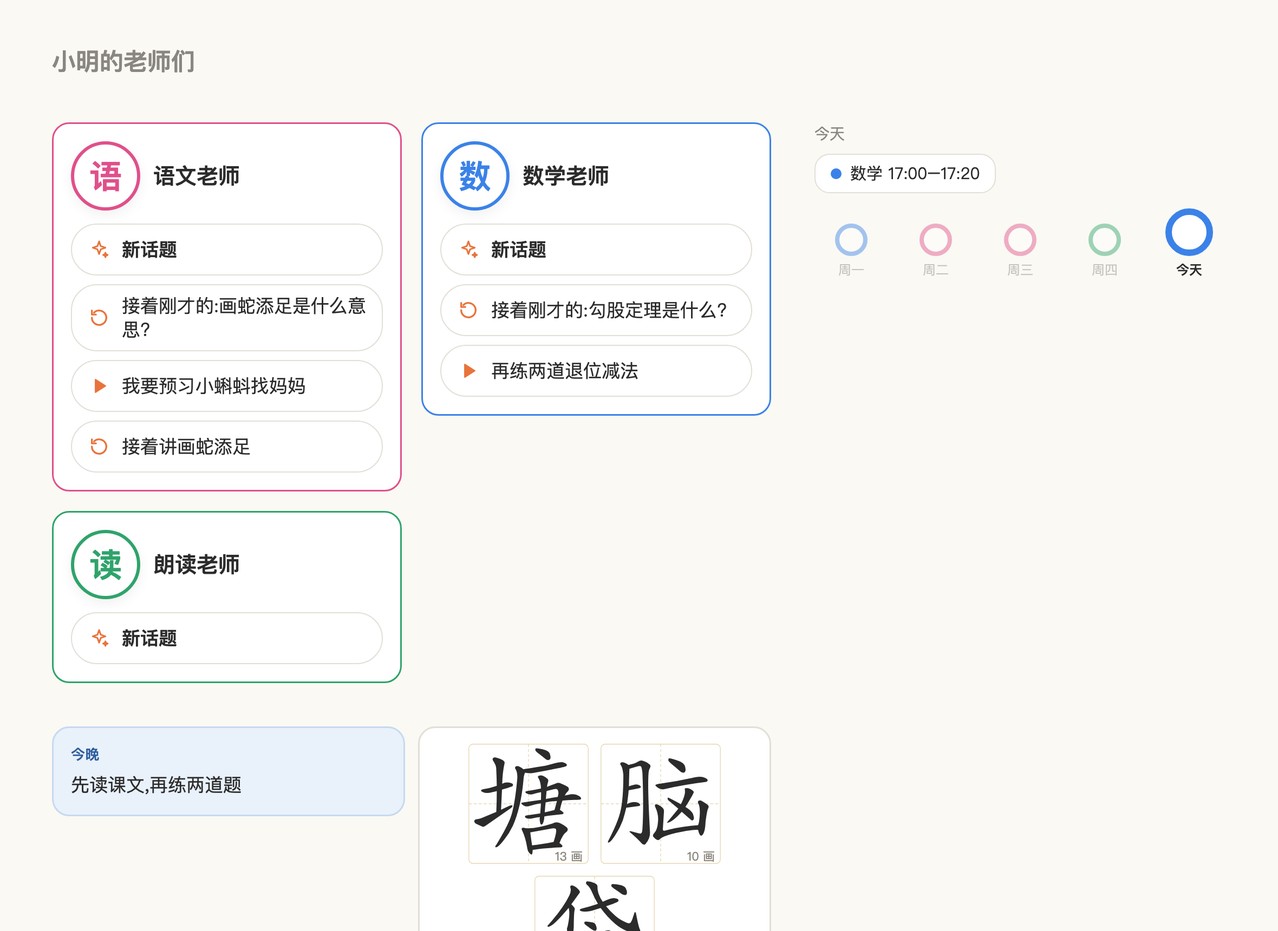
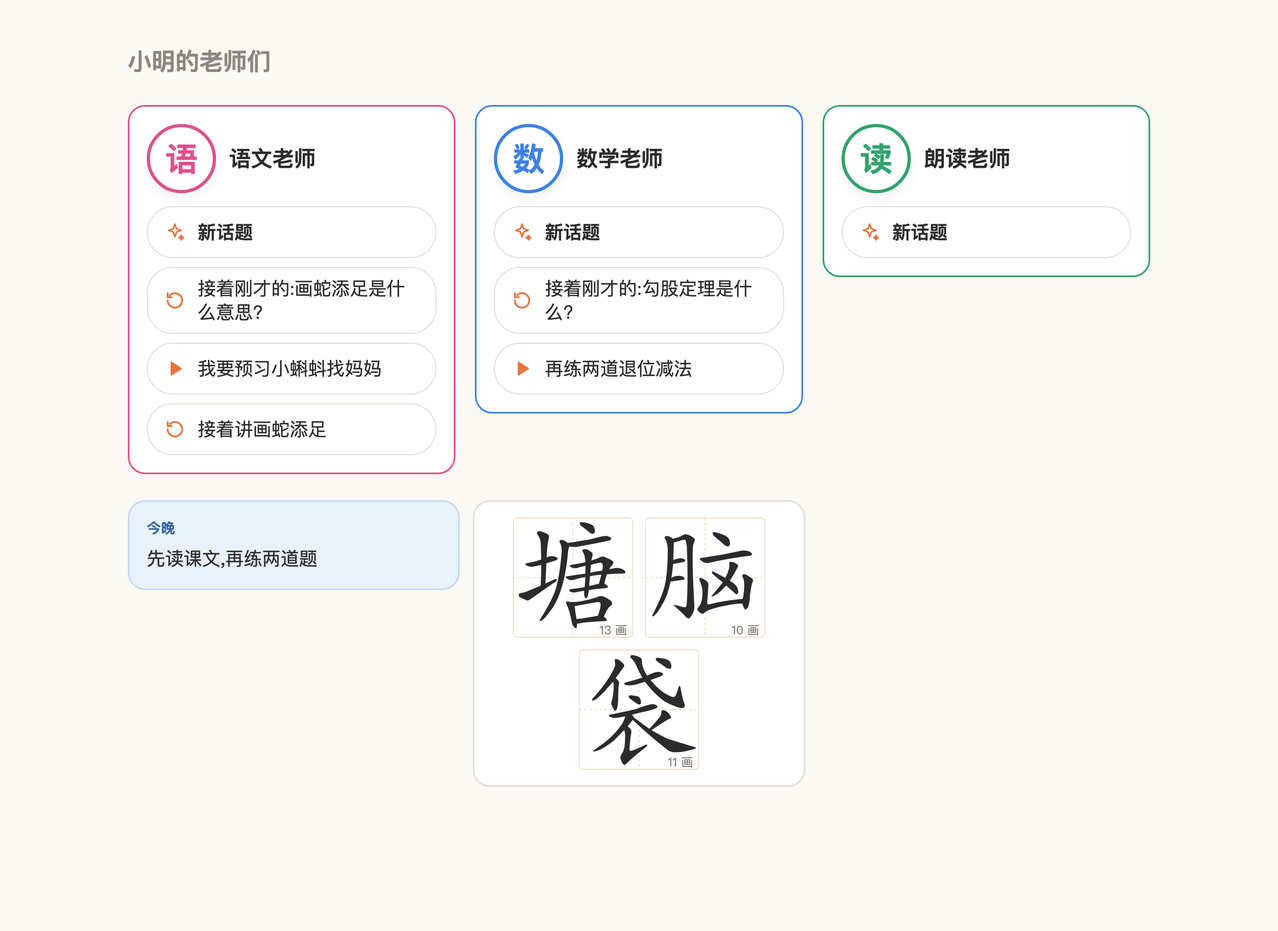
首页去掉右边的「今天」栏:初始状态就是每位老师一张卡
没写课程表时那一栏只剩一个空圈,手机上还掉到最底下;课程表第三期作为家长排的卡回来。
/api/kid/home 不再给 timetable / slot / day(上下文包的 slot 是 runner 自己算的,不受影响);
整页单列居中,平板上老师卡一行三张。刚装好、什么记录都没有时,首页就是每位老师一张只有
「新话题」的卡(《首页设计.md》拍板记录 2026-09-18 初始状态)。

diff --git a/src/server/kid-page.ts b/src/server/kid-page.ts
@@ -1,5 +1,5 @@
 /**
- * 孩子端 `/`:首页(老师卡 + 家长发布的首页卡 + 今天,《首页设计.md》)与老师页(= 板书页)。零依赖内联脚本,只走 /api/kid/* 与 /api/audio。
+ * 孩子端 `/`:首页(老师卡 + 家长发布的首页卡,《首页设计.md》)与老师页(= 板书页)。零依赖内联脚本,只走 /api/kid/* 与 /api/audio。
  * 首页的老师卡上按钮决定进老师页之后的话题:新话题 / 接着某个话题 / 开场(按钮上的字立刻发出去);老师页不再自己猜话题。
  * 家长预览(/parent/home-preview)是同一个页面:__PREVIEW__ 换成 "draft" / "published",数据走 /api/home/preview,按钮不真发。
  * 铁律(《产品规划.md》):界面上永远没有错误与评判——后端不通、老师出错、识别失败,都只是「什么都不出现」或头像灰;
@@ -74,20 +74,8 @@ const PAGE = `<!doctype html>
   .hcards { display:grid; grid-template-columns:minmax(0,1fr); gap:12px; align-items:start; }
   .hcards:empty { display:none; }
   .lbl { font-size:14px; color:var(--dim); }
-  .today { display:flex; flex-direction:column; gap:8px; }
-  .slot .dot { width:10px; height:10px; border-radius:50%; flex:0 0 auto; }
   #toast { position:fixed; left:50%; bottom:calc(env(safe-area-inset-bottom) + 24px); transform:translateX(-50%); max-width:min(560px,calc(100% - 32px)); padding:12px 18px; border-radius:16px; background:#2b2b2bee; color:#fff; font-size:15px; line-height:1.5; white-space:pre-line; z-index:50; display:none; }
   #toast.on { display:block; }
-  .slots { display:flex; gap:8px; flex-wrap:wrap; }
-  .slot { display:inline-flex; align-items:center; gap:8px; background:var(--card); border:1px solid var(--line); border-radius:14px; padding:6px 14px; font-size:15px; }
-  .slot.now { border-color:var(--accent); box-shadow:0 0 0 3px #e8743b33; }
-  .path { display:flex; align-items:flex-end; gap:10px; padding:6px 0 0; }
-  .station { display:flex; flex-direction:column; align-items:center; gap:4px; flex:1; }
-  .station .ring { width:30px; height:30px; border-radius:50%; border:4px solid var(--line); background:var(--card); }
-  .station.now .ring { width:44px; height:44px; border-width:6px; }
-  .station .d { font-size:12px; color:var(--dim); }
-  .station.now .d { color:var(--ink); font-weight:600; }
-  .station.past { opacity:.45; } .station.later { opacity:.7; }
   #rest { display:none; text-align:center; color:var(--dim); font-size:16px; padding:12px 0; }
   body.offline #rest { display:block; }
   body.offline .c-tutor { pointer-events:none; }
@@ -158,11 +146,10 @@ const PAGE = `<!doctype html>
   input[type=file] { display:none; }
   /* ---- 平板横屏 ---- */
   @media (min-width:900px) and (orientation:landscape) {
-    #home { max-width:none; display:grid; grid-template-columns:1fr 380px; gap:40px; padding:calc(env(safe-area-inset-top) + 40px) 48px 40px; align-content:start; }
-    #home h1 { grid-column:1 / -1; font-size:22px; }
-    #home .tutors { grid-column:1; grid-template-columns:repeat(auto-fill,minmax(280px,1fr)); gap:18px; align-items:start; }
-    #home .hcards { grid-column:1; grid-template-columns:repeat(auto-fill,minmax(280px,1fr)); }
-    #home .side { grid-column:2; grid-row:2 / span 3; display:flex; flex-direction:column; gap:14px; }
+    #home { max-width:1040px; padding:calc(env(safe-area-inset-top) + 40px) 48px 40px; gap:24px; }
+    #home h1 { font-size:22px; }
+    #home .tutors { grid-template-columns:repeat(auto-fill,minmax(280px,1fr)); gap:18px; align-items:start; }
+    #home .hcards { grid-template-columns:repeat(auto-fill,minmax(280px,1fr)); }
     #main header { padding-left:32px; padding-right:32px; }
     #board { width:100%; max-width:1040px; margin:0 auto; padding:16px 32px 24px; }
     #sub, #bar { width:100%; max-width:1040px; margin:0 auto; padding-left:32px; padding-right:32px; }
@@ -173,7 +160,6 @@ const PAGE = `<!doctype html>
   <div class="tutors" id="tutors"></div>
   <p id="rest">老师们休息中</p>
   <div class="hcards" id="hcards"></div>
-  <div class="side" id="side"></div>
 </div>
 <div id="toast"></div>
 <section id="tutor">
@@ -253,7 +239,6 @@ __BOARD_JS__
   const PALETTE = ['#e8743b', '#3b82e8', '#2fa36b', '#b45fd1', '#d9a520', '#e0508a'];
   const FIXED = { '语文': '#e0508a', '数学': '#3b82e8', '英语': '#2fa36b' };
   const color = (s) => { if (FIXED[s]) return FIXED[s]; let x = 0; for (const ch of s || '') x = (x * 31 + ch.codePointAt(0)) >>> 0; return PALETTE[x % PALETTE.length]; };
-  const DAYS = ['', '一', '二', '三', '四', '五', '六', '日'];
   const avatarEl = (t, cls) => {
     const el = h('span', { class: 'av ' + (cls || ''), style: 'border-color:' + color(t.subject || t.display) + ';color:' + color(t.subject || t.display) });
     if (t.avatar && /\.(png|jpe?g|webp|svg)$/i.test(t.avatar)) el.append(h('img', { src: '/api/kid/avatar/' + t.name, alt: '' }));
@@ -331,14 +316,6 @@ __BOARD_JS__
     const tcards = cards.filter((c) => c.kind === 'tutor' && byName.has(c.props.tutor));
     $('#tutors').replaceChildren(...tcards.map((c) => tutorCard(byName.get(c.props.tutor), Array.isArray(c.props.buttons) ? c.props.buttons : [])));
     $('#hcards').replaceChildren(...cards.filter((c) => c.kind !== 'tutor').map((c, i) => renderCard(c, i, null, false)));
-    const days = [...new Set([...H.timetable.map((e) => e.day), H.day])].sort((a, b) => a - b);
-    const slots = H.timetable.filter((e) => e.day === H.day).map((e) => h('span', { class: 'slot' + (H.slot === e.subject + ' ' + e.start + '-' + e.end ? ' now' : '') }, h('span', { class: 'dot', style: 'background:' + color(e.subject) }), e.subject + ' ' + e.start + '–' + e.end));
-    const path = h('div', { class: 'path' }, ...days.map((d) => {
-      const subjects = [...new Set(H.timetable.filter((e) => e.day === d).map((e) => e.subject))];
-      const when = d === H.day ? 'now' : d < H.day ? 'past' : 'later';
-      return h('div', { class: 'station ' + when }, h('span', { class: 'ring', style: 'border-color:' + (subjects.length ? color(subjects[0]) : 'var(--line)') }), h('span', { class: 'd' }, d === H.day ? '今天' : '周' + DAYS[d]));
-    }));
-    $('#side').replaceChildren(h('div', { class: 'today' }, h('span', { class: 'lbl' }, '今天'), slots.length ? h('div', { class: 'slots' }, ...slots) : null, path));
   };
   const loadHome = async () => {
     try { S.home = await api('GET', PREVIEW ? '/api/home/preview?which=' + PREVIEW : '/api/kid/home'); setOffline(false); renderHome(); }

diff --git a/tests/mock.test.ts b/tests/mock.test.ts
@@ -10,9 +10,9 @@ interface Day { messages: Msg[]; remaining: number; pending: string | null }
   const m = createMock({ delayMs: 0, now: () => new Date('2026-09-10T16:30:00') });
   const get = (p: string) => m.route('GET', p);
   type HomeCard = { kind: string; props: { tutor?: string; buttons?: { id: string | number; kind: string; label: string; date?: string; thread?: string }[] } };
-  const home = (await get('/api/kid/home')).json as { title: string; day: number; home: string; tutors: { name: string; available: boolean; motto: string }[]; cards: HomeCard[] };
+  const home = (await get('/api/kid/home')).json as { title: string; home: string; tutors: { name: string; available: boolean; motto: string }[]; cards: HomeCard[] };
   const tc = home.cards.filter((c) => c.kind === 'tutor');
-  check('首页:三位老师、口号;老师卡置顶(语文、数学照原文,朗读补一张),其余卡照原文顺序', home.title === '小明的老师们' && home.day === 4 && home.tutors.length === 3 && home.tutors.every((t) => t.available) && home.tutors[0].motto === '故事里都有道理' && home.home === '2026-09-09-2130' && tc.map((c) => c.props.tutor).join() === 'chinese-tutor,math-tutor,reading-tutor' && home.cards.slice(3).map((c) => c.kind).join() === 'text,tianzige', JSON.stringify(home.cards.map((c) => c.kind)));
+  check('首页:三位老师、口号;老师卡置顶(语文、数学照原文,朗读补一张),其余卡照原文顺序', home.title === '小明的老师们' && home.tutors.length === 3 && home.tutors.every((t) => t.available) && home.tutors[0].motto === '故事里都有道理' && home.home === '2026-09-09-2130' && tc.map((c) => c.props.tutor).join() === 'chinese-tutor,math-tutor,reading-tutor' && home.cards.slice(3).map((c) => c.kind).join() === 'text,tianzige', JSON.stringify(home.cards.map((c) => c.kind)));
   check('老师卡的按钮:新话题第一、今天聊过的「接着刚才的」第二、然后是原文的开场与接着;没写的只有新话题;讲法不下发', tc[0].props.buttons?.map((b) => b.id).join() === 'new,recent,0,1' && tc[0].props.buttons?.[1].label === '接着刚才的:画蛇添足是什么意思?' && tc[0].props.buttons?.[3].kind === 'continue' && tc[0].props.buttons?.[3].date === '2026-09-09' && tc[2].props.buttons?.map((b) => b.id).join() === 'new' && !JSON.stringify(home).includes('第 22 课') && !JSON.stringify(home).includes('brief'), JSON.stringify(tc[0].props.buttons));
   const d0 = (await get('/api/kid/conversations/chinese-tutor/today')).json as Day;
   check('语文老师已讲过一节:卡 + 讲稿 + 标注 + 末句问句(脚本过真解析器)', d0.messages.length === 1 && d0.messages[0].section !== null && d0.messages[0].section.cards.map((c) => c.kind).join() === 'text,text,read,choice' && d0.messages[0].section.lines.length === 5 && d0.messages[0].section.lines[1].marks[0]?.card === 1 && d0.messages[0].section.lines[4].ask === true, JSON.stringify(d0.messages[0].section?.lines[1]));

diff --git a/tests/runner.test.ts b/tests/runner.test.ts
@@ -231,8 +231,8 @@ try {
   check('起不来 → error 指向 err.log,尾巴带原因', dm.index.messages[0].result === 'error' && String(dm.index.messages[0].error).startsWith('spawn:') && dm.errors[dm.index.messages[0].job]?.includes('起不来'), JSON.stringify({ m: dm.index.messages[0], e: dm.errors }));
 
   // ---- 孩子端接口:首页、过滤后的会话、发消息、每日上限、配音文件 ----
-  const home = (await route('GET', '/api/kid/home', ctx)).json as { title: string; timetable: unknown[]; tutors: { name: string; available: boolean; remaining: number; hasVoice: boolean }[]; home: string | null; cards: { kind: string; props: { tutor?: string } }[] };
-  check('首页:标题、课程表、孩子端老师(无 scene-maker);没发布过 = 缺省首页(每位老师一张卡)', home.title === '小明的老师们' && home.timetable.length === 2 && home.tutors.length === 3 && !home.tutors.some((t) => t.name === 'scene-maker') && home.home === null && home.cards.map((c) => c.props.tutor).join() === 'chinese-tutor,math-tutor,reading-tutor', JSON.stringify(home.cards));
+  const home = (await route('GET', '/api/kid/home', ctx)).json as { title: string; tutors: { name: string; available: boolean; remaining: number; hasVoice: boolean }[]; home: string | null; cards: { kind: string; props: { tutor?: string } }[] };
+  check('首页:标题、孩子端老师(无 scene-maker)、没有课程表那一栏;没发布过 = 缺省首页(每位老师一张卡)', home.title === '小明的老师们' && !('timetable' in home) && home.tutors.length === 3 && !home.tutors.some((t) => t.name === 'scene-maker') && home.home === null && home.cards.map((c) => c.props.tutor).join() === 'chinese-tutor,math-tutor,reading-tutor', JSON.stringify(home.cards));
   check('老师带 hasVoice 与剩余条数(今天 09-09 孩子还没发过)', home.tutors.find((t) => t.name === 'math-tutor')?.hasVoice === true && home.tutors.find((t) => t.name === 'math-tutor')?.remaining === 30, JSON.stringify(home.tutors));
   const kd = (await route('GET', '/api/kid/conversations/math-tutor/today', ctx)).json as { messages: { question: string | null; reply: string | null; audio: string | null }[]; remaining: number; pending: string | null };
   check('孩子视图:家长发的只见回复,搜不到工具、错误、家长尾巴', kd.messages.length === 1 && kd.messages[0].question === null && kd.messages[0].reply === '第一次说:新的一天' && !/工具|error|holdup|handoff|costUsd|Read/.test(JSON.stringify(kd)), JSON.stringify(kd));

diff --git a/src/server/app.ts b/src/server/app.ts
@@ -13,8 +13,7 @@ import { foldRuns, type TranscriptRow } from '../lib/transcript.ts';
 import { RuntimeError } from '../lib/run-plan.ts';
 import { currentThread, lastJobOf, localDate, threads } from '../lib/conversation.ts';
 import { kidConversation, kidMessageCount, kidThreads, type KidMessage, type KidThread } from '../lib/kid-view.ts';
-import { currentSlot, dayOf, parseTimetable, slotLabel } from '../lib/timetable.ts';
-import { DATE_RE, FocusSchema, HOME_ID_RE, HomeViaSchema, MESSAGE_FROM, listTutors, resolvePolicy, type ConversationIndex, type TimetableEntry } from '../schema/index.ts';
+import { DATE_RE, FocusSchema, HOME_ID_RE, HomeViaSchema, MESSAGE_FROM, listTutors, resolvePolicy, type ConversationIndex } from '../schema/index.ts';
 import type { BoardCard } from '../lib/kid-board.ts';
 import { ConfigError, UsageError, redactHome, workspaceReport, type Workspace } from '../cli/workspace.ts';
 import { tutorStatuses } from '../cli/tutors.ts';
@@ -135,10 +134,6 @@ export async function kidTutors(ctx: AppContext, date: string): Promise<KidTutor
 export interface KidHome {
   title: string;
   date: string;
-  /** 1–7 */
-  day: number;
-  timetable: TimetableEntry[];
-  slot: string | null;
   tutors: KidTutor[];
   /** 发布的首页 id(孩子点按钮时带回来);缺省首页 / 预览 = null */
   home: string | null;
@@ -151,15 +146,8 @@ export interface KidHome {
 export async function kidHome(ctx: AppContext, now: Date, opts: { preview?: 'draft' | 'published' } = {}): Promise<KidHome> {
   const ws = ctx.ws;
   const date = localDate(now);
-  let timetable: TimetableEntry[] = [];
-  try {
-    timetable = parseTimetable(await readFile(ws.paths.timetable, 'utf8')).entries;
-  } catch {
-    /* 没课程表:今天照画 */
-  }
-  const slot = currentSlot(timetable, now);
   const view = await kidHomeView(ws, now, opts.preview ? { source: opts.preview, keepBriefs: true } : {});
-  return { title: ws.config.title, date, day: dayOf(now), timetable, slot: slot ? slotLabel(slot) : null, tutors: await kidTutors(ctx, date), home: opts.preview ? null : view.home, cards: view.cards, ...(opts.preview ? { preview: opts.preview } : {}) };
+  return { title: ws.config.title, date, tutors: await kidTutors(ctx, date), home: opts.preview ? null : view.home, cards: view.cards, ...(opts.preview ? { preview: opts.preview } : {}) };
 }
 
 export interface KidDay {

diff --git a/src/server/mock.ts b/src/server/mock.ts
@@ -410,17 +410,8 @@ export function createMock(opts: MockOptions = {}): Mock {
   };
   const remaining = (name: string): number => (scenario === 'limit' ? 0 : Math.max(0, dailyLimit - used(name)));
   const tutorsJson = () => MOCK_TUTORS.map((t) => ({ name: t.name, display: t.display, avatar: t.avatar, subject: t.subject, motto: t.motto, hasVoice: false, remaining: remaining(t.name), available: remaining(t.name) > 0 }));
-  const timetable = [
-    { day: 1, subject: '数学', start: '17:00', end: '17:20' },
-    { day: 2, subject: '语文', start: '16:00', end: '16:30' },
-    { day: 3, subject: '语文', start: '16:00', end: '16:30' },
-    { day: 3, subject: '数学', start: '17:00', end: '17:20' },
-    { day: 4, subject: '英语', start: '16:30', end: '16:50' },
-    { day: 5, subject: '数学', start: '17:00', end: '17:20' },
-  ];
   const home = () => {
     const d = now();
-    const day = d.getDay() === 0 ? 7 : d.getDay();
     const cards = arrangeHome(parseHome(mockHomeMd(localDate(d), yesterday())).cards, MOCK_TUTORS.map((t) => t.name)).map((c) => {
       if (c.kind !== 'tutor') return c;
       const name = String(c.props.tutor);
@@ -430,7 +421,7 @@ export function createMock(opts: MockOptions = {}): Mock {
       const alive = (date: string, thread: string): boolean => date === yesterday() && (past.get(name) ?? []).some((m) => m.thread === thread);
       return { kind: 'tutor', props: { tutor: name, buttons: kidButtons((c.props.buttons ?? []) as TutorButton[], { recent, alive }) } };
     });
-    return { title, date: localDate(d), day, timetable, slot: null, tutors: tutorsJson(), home: mockHomeId(), cards };
+    return { title, date: localDate(d), tutors: tutorsJson(), home: mockHomeId(), cards };
   };
   const mockHomeId = (): string => `${yesterday()}-2130`;
   /** via → 按钮(真服务在 server/home.ts resolveVia;mock 从同一份原文取) */

diff --git a/docs/首页设计.md b/docs/首页设计.md
@@ -189,7 +189,7 @@ for: 2026-09-18
 2. **老师卡永远在最上面**:按文件里的先后;其余卡按文件顺序排在下面。
 3. **按钮顺序**:`新话题` 第一;今天和这位老师聊过的,第二个是应用加的「接着刚才的」(孩子端最后一条所在的话题,字 = 那个话题第一句孩子的话,截到 10 字;文件里已经有接着这个话题的按钮就不加);然后是文件里的。
 4. **条数用完 / 服务不通**:老师卡整张变灰,按钮点不了(和现在的头像一样)。
-5. **没发布过、published.json 坏了**:缺省首页 = 第 1、3 条的老师卡 + 课程表(第一期沿用现在的「今天」侧栏,第三期换成 `timetable` 卡)。首页永远能开,孩子端不报错。
+5. **没发布过、published.json 坏了**:缺省首页 = 第 1、3 条的老师卡(刚装好就是每位老师一张只有「新话题」的卡,别的什么都没有)。首页永远能开,孩子端不报错。
 6. **旧首页照常显示**:`for` 早于今天不影响孩子端;家长端「首页」页挂「N 天前发布的」,doctor 超过 3 天提醒。
 7. **引用坏了就不出现**:`again` 的卡、`接着` 的话题在请求时找不到 → 这张卡 / 这个按钮不出现。
 
@@ -197,10 +197,10 @@ for: 2026-09-18
 
 ### 5.1 首页长什么样
 
-- 顶上标题(cotutor.json 的 `title`)。
+- 顶上标题(cotutor.json 的 `title`);整页单列居中(平板最宽 1040),没有侧栏。
 - **老师区**:每位老师一张大卡,头像 + 显示名 + 竖排的按钮(胶囊,左侧小图标:✨ 新话题、↻ 接着、▶ 开场)。平板横屏一行 2–3 张,手机一张一行。
 - **卡区**:其余卡按顺序铺,平板两栏、手机一栏;复用板书卡的样式与主题底色(`tintFor` 机械规则,首页不走板书后期)。鼓励卡大字 + 喇叭;再看看卡上方一行小字「再看看 · 语文老师 · 9月16日」+ 说明句,下面是原卡的紧凑态。
-- 拿掉:mock 里的「今天可以问」(`suggestions`)、「今天的产物」叠(`stacks`,只列了课包 id、点不了;要看画图作业用 `again` 指到那张场景卡)。
+- 拿掉:mock 里的「今天可以问」(`suggestions`)、「今天的产物」叠(`stacks`,只列了课包 id、点不了;要看画图作业用 `again` 指到那张场景卡)、右边的「今天」栏(课程表时段 + 一周小路;2026-09-18 拿掉,见拍板记录——没写课程表时它只是一个空圈,第三期的 `timetable` / `week` 卡更灵活)。`/api/kid/home` 也不再给 `timetable` / `slot` / `day`(上下文包的 `slot` 是 runner 自己读课程表算的,不受影响)。
 
 ### 5.2 点按钮之后
 
@@ -403,7 +403,7 @@ description: 排 cotutor 孩子端的首页。孩子学完之后,家长在 works
 
 1. **第一期:老师卡与发布**。`home/` 与 published.json、`tutor` 卡、`where` 字段、`home check / publish / show`、孩子端老师区(卡区先只放 text / image / tianzige / read,「今天」侧栏照旧)、intent 与去掉默认接话题、via 与上下文包 `home:` / `continue:`、缺省首页、家长端「首页」页、技能 cotutor-home、老师文件一行、`show` 的卡 id。验收:在 ray 上真跑一晚——技能出草稿、预览、发布、孩子点开场按钮、老师照讲法开场、第二天 `home show` 看到点击。
 2. **第二期:鼓励与再看看**。`cheer`(配音、音频路由、评判词)、`again`(请求时解引用、原地交互、`view` 进老师页)。
-3. **第三期:课程表与这一周**。`timetable`、`week`;缺省首页的「今天」侧栏换成 `timetable` 卡,删掉旧侧栏。
+3. **第三期:课程表与这一周**。`timetable`、`week`;课程表回到首页,这次是家长排的一张卡。
 
 ## 十二、文档要跟着改的
 
@@ -435,3 +435,5 @@ description: 排 cotutor 孩子端的首页。孩子学完之后,家长在 works
 12. 发布在 CLI 与家长端「首页」页都能做。
 
 **2026-09-18(第一期落地时定的)**:`home/` 不进骨架;调试入口 `?tutor=` 接今天的当前话题;文件里已有接着今天那个话题的按钮时不再加「接着刚才的」。
+
+**2026-09-18(初始状态)**:刚装好、什么记录都没有时,首页就是**每位老师一张只有「新话题」的卡**,不放自我介绍、不放出厂的开场按钮(评估过四个方案,先要最简的那个;老师的一句自我介绍、出厂缺省首页、第一次由技能起草,都没做)。同时**去掉右边的「今天」栏**:没写课程表时它只是一个空圈,手机上还掉到最底下;课程表第三期作为卡回来。

diff --git a/docs/开发者手册.md b/docs/开发者手册.md
@@ -109,7 +109,7 @@ cotutor serve
 
 **不花钱先看形态**:`node bin/cotutor.js mock`(不需要 workspace,`--scenario limit|offline` 换场景)。语文老师三节走完 点读 → 选择题 → 填空 → 画板,数学老师第三节是一张场景卡(课包样本在 `tests/fixtures/bundles/`)。调试参数:`/?tutor=chinese-tutor&step=<节>.<句>` 停在某句,`&stage=<节>.<卡>` 直接开舞台,`&device=phone|tablet-portrait|tablet-landscape` 强制按某个端折行。数学老师第一节是勾股定理(原型「cotutor 板书卡片」的样张:封面 / `#` 标题的 text / 公式 / 短选项横排的选择题)。下面第 1–3 步在 mock 里就能验,第 4 步起要真 workspace。
 
-1. **首页**(《首页设计.md》):最上面每位老师一张老师卡(不含 hidden 的画图老师),卡上的按钮:✨ 新话题、今天聊过的「↻ 接着刚才的」、家长发布的开场(▶)与接着(↻);下面是发布的其余卡;旁边是今天的时段与一周小路。mock 里是一份写死的「已发布」(`mockHomeMd`:语文老师有开场与接着昨天的按钮,朗读老师没写、补一张)。点开场按钮 → 老师页打开、按钮上的字立刻发出去;点新话题 → 空白老师页等孩子开口。老师页不再自己猜话题:调试入口 `/?tutor=<名>` 接今天的当前话题。真服务上整条链不用手点:`node scripts/probe-home.mjs [--out <目录>]`(临时 workspace + 假 CLI:发布一份草稿 → 手机 / 平板截图 → 点新话题、点开场 → 家长端「首页」页截图,逐项打勾)。
+1. **首页**(《首页设计.md》):最上面每位老师一张老师卡(不含 hidden 的画图老师),卡上的按钮:✨ 新话题、今天聊过的「↻ 接着刚才的」、家长发布的开场(▶)与接着(↻);下面是发布的其余卡;页面上没有别的(课程表那一栏 2026-09-18 去掉了,第三期由 `timetable` / `week` 卡表达)。mock 里是一份写死的「已发布」(`mockHomeMd`:语文老师有开场与接着昨天的按钮,朗读老师没写、补一张)。点开场按钮 → 老师页打开、按钮上的字立刻发出去;点新话题 → 空白老师页等孩子开口。老师页不再自己猜话题:调试入口 `/?tutor=<名>` 接今天的当前话题。真服务上整条链不用手点:`node scripts/probe-home.mjs [--out <目录>]`(临时 workspace + 假 CLI:发布一份草稿 → 手机 / 平板截图 → 点新话题、点开场 → 家长端「首页」页截图,逐项打勾)。
 2. **一节**:点「语文老师」→ 打字「画蛇添足是什么意思?」回车。看到什么算对:先出「让我想想…」,老师那轮跑起来后**卡一张张露出来**(流式:`--include-partial-messages` 的增量喂 `parseBoard(partial)`,只追加卡、不播),整轮跑完这一节转正,再**从第一句开始念**;念到哪句底部字幕就是哪句,句子里 `[方括号]` 标的词在卡上画出橙色标注并滚过去。末句是问句 → 停下,右下角「继续」。
 3. **舞台**:点选择题卡 → 盖住板书那块、讲稿暂停、大按钮;选一个 → 「交给老师」。字幕行回显「你:A …」,接着老师的下一节。填空卡逐空输入;点读卡每段点了念(老师配了 voice 的,那轮跑完几秒后各段 mp3 陆续落在 `conversations/<老师>/<日期>.<job>.cards/<n>/`,没生成好之前是浏览器合成声);图片卡双指缩放;画板卡是工作台(自己的七个钮,excalidraw 的壳藏掉;竖屏钮在一行、横屏在左列),画完「给老师看」导出 png,紧凑态变成缩略图。`Esc` 或右上角 × 关舞台。画板整条链不用手点:`node scripts/probe-canvas.mjs`(先把语文老师推到第三节)用 CDP 在 iframe 里画三笔、撤销一笔、交上去,逐项打勾。
 4. **真老师**(要 workspace,花钱):`cotutor serve` 后开 `http://localhost:5180/`,问「25加17等于多少」。随口一问就该是一两句话、没有卡;问「三角形面积怎么算」这种才该出卡。回 `/parent` 看同一轮:绿色「孩子看到:」后面跟着「板书 N 张卡 M 句」,孩子在卡上做过的显示成「孩子在板书上做的:…」并带答案。

diff --git a/docs/产品规划.md b/docs/产品规划.md
@@ -27,7 +27,7 @@
 
 ### 孩子端(`/`)
 
-- **首页 = 家长批准的一页卡**(《首页设计.md》):最上面每位老师一张老师卡,卡上的按钮决定进老师页之后是新话题、接着哪个话题、还是带着家长备好的讲法开场;下面是家长排的几张卡,旁边是课程表的今天。首页由家长在 workspace 根开 Claude Code(技能 `cotutor-home`)商量、`cotutor home publish` 发布;没发布过就是每位老师一张只有「新话题」的卡。没有广场,没有选孩子(一孩一 workspace)。
+- **首页 = 家长批准的一页卡**(《首页设计.md》):最上面每位老师一张老师卡,卡上的按钮决定进老师页之后是新话题、接着哪个话题、还是带着家长备好的讲法开场;下面是家长排的几张卡。首页由家长在 workspace 根开 Claude Code(技能 `cotutor-home`)商量、`cotutor home publish` 发布;没发布过就是每位老师一张只有「新话题」的卡。没有广场,没有选孩子(一孩一 workspace)。
 - **板书页**:按住说话或打字,回复是一页板书:卡先铺开、讲稿一句句念、笔跟着声音标注,末句问句停下等孩子;点一张卡进舞台做题,做完「交给老师」。头部「新话题」与「以前的」。孩子视图按《契约草案.md》§4 的机械规则;没有思考、工具、转录、报错、评判。
 - **后端不通**:老师卡灰掉,板书页不开。
 - **孩子设备上没有通往家长端的入口**。
